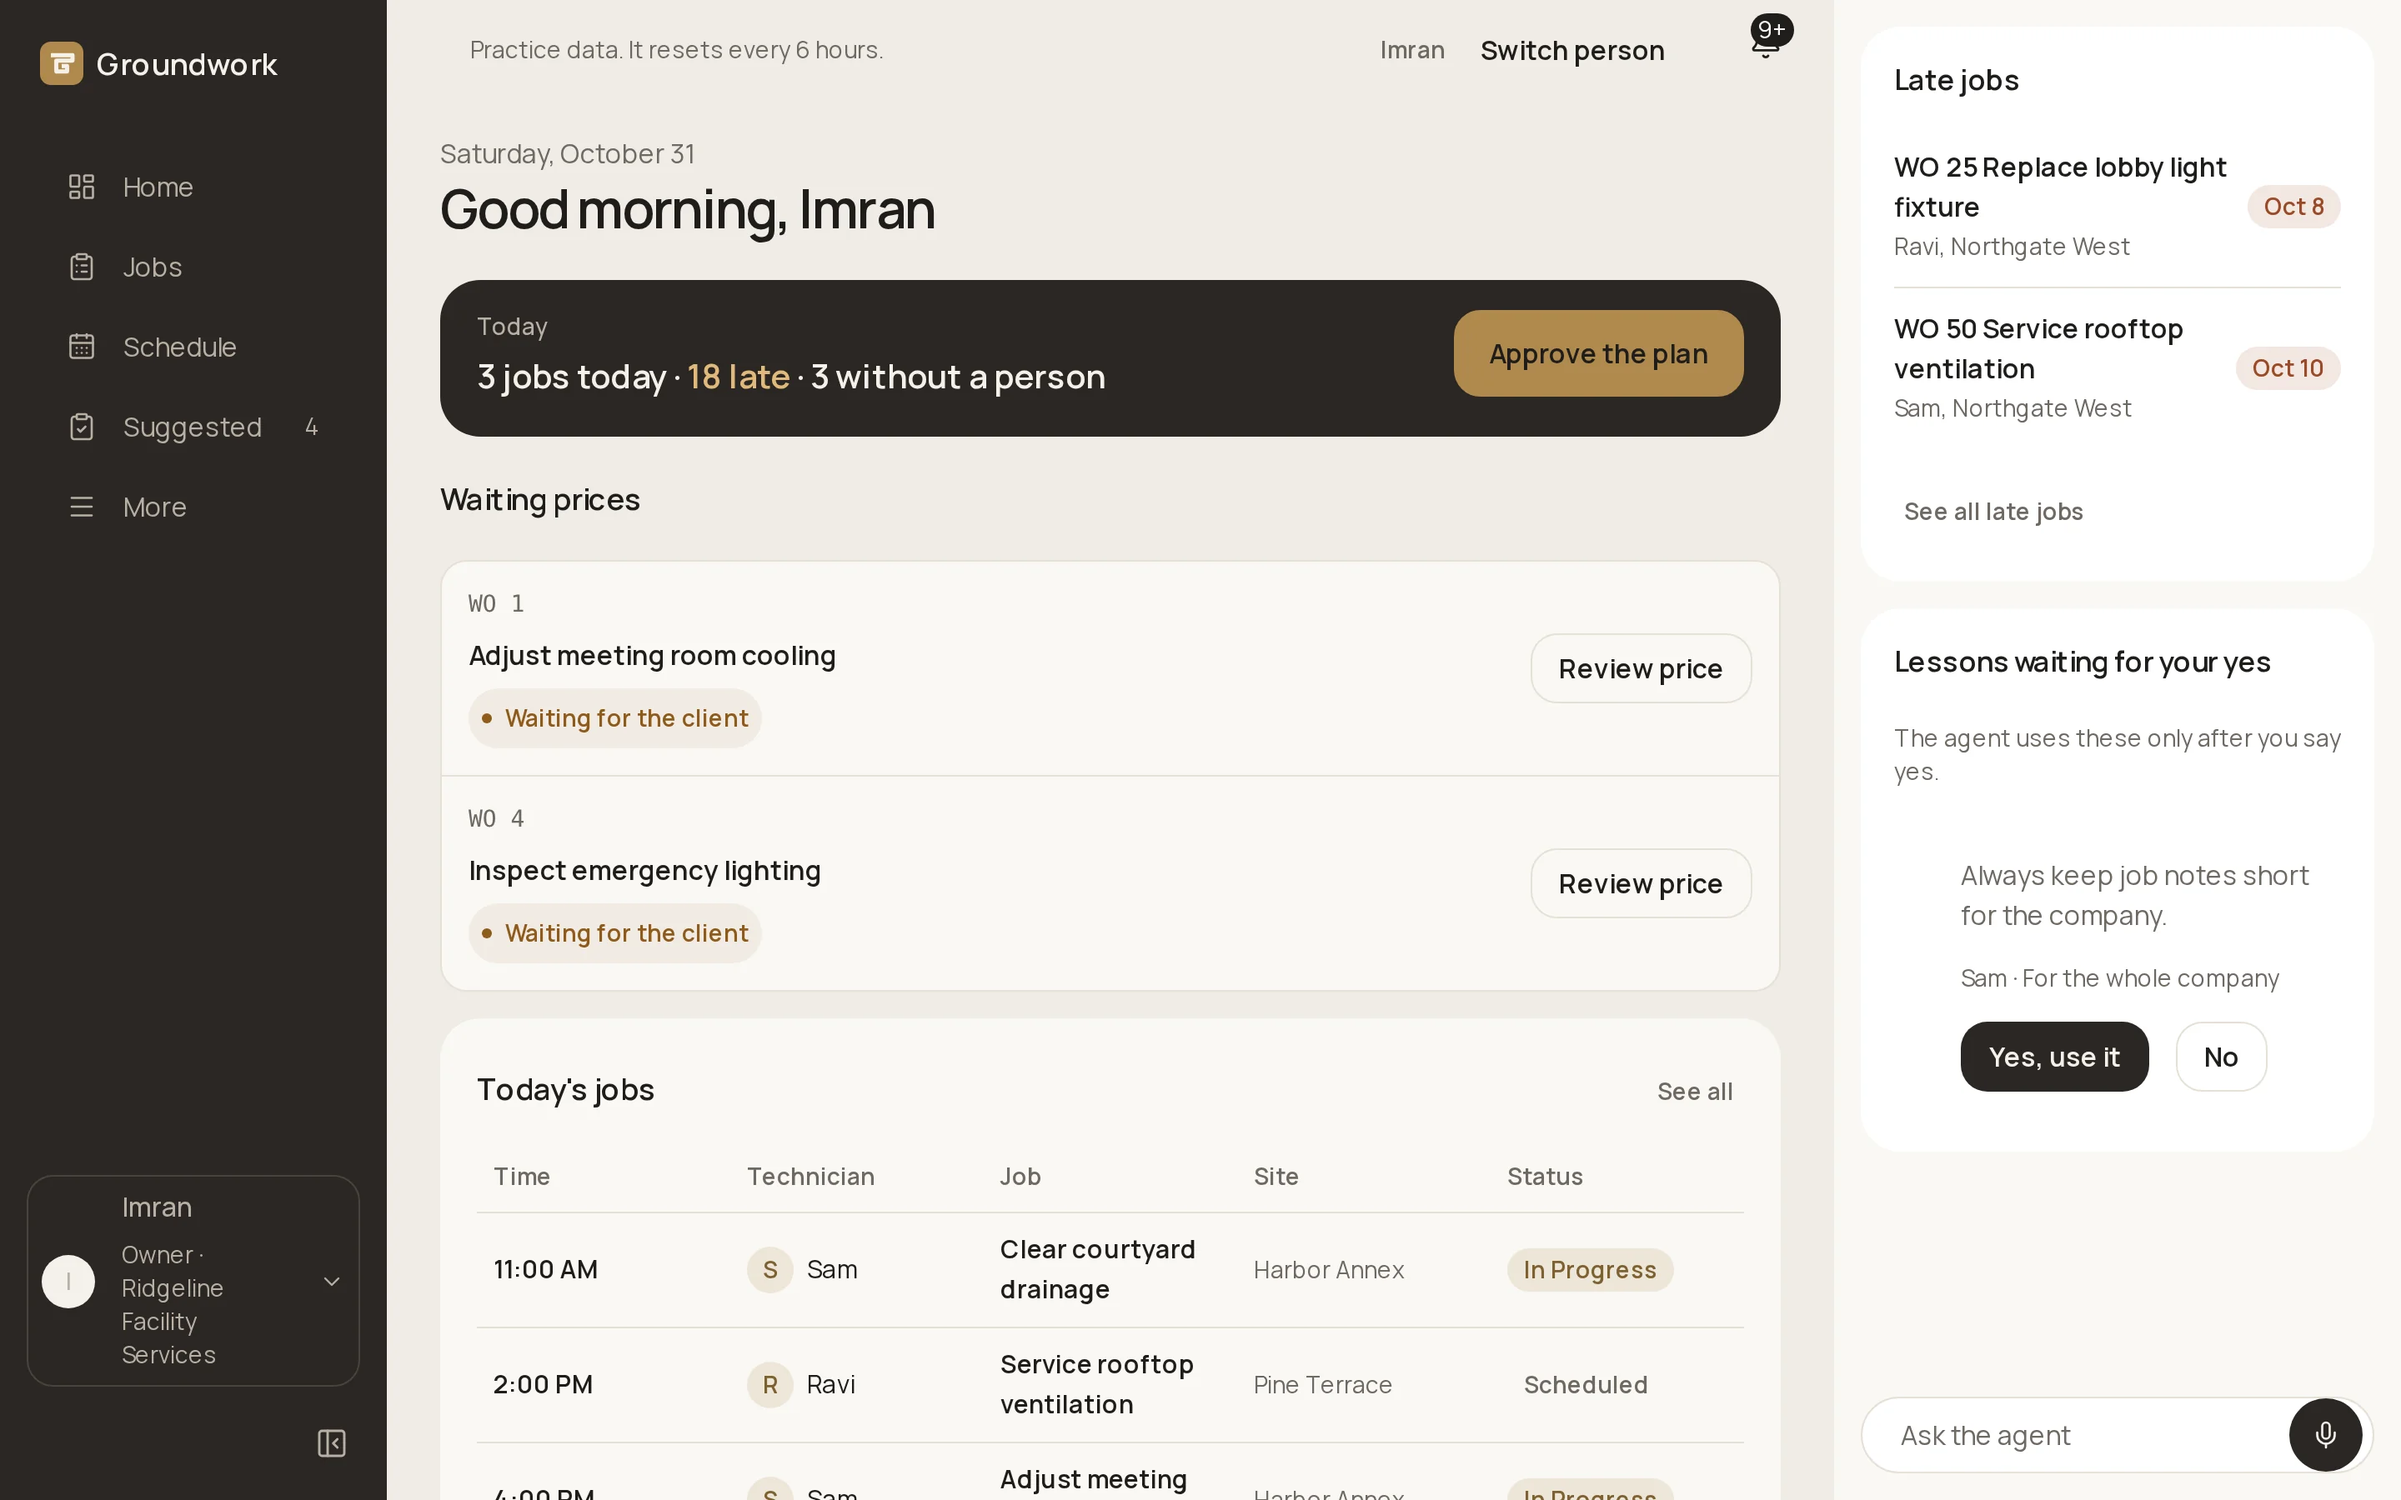
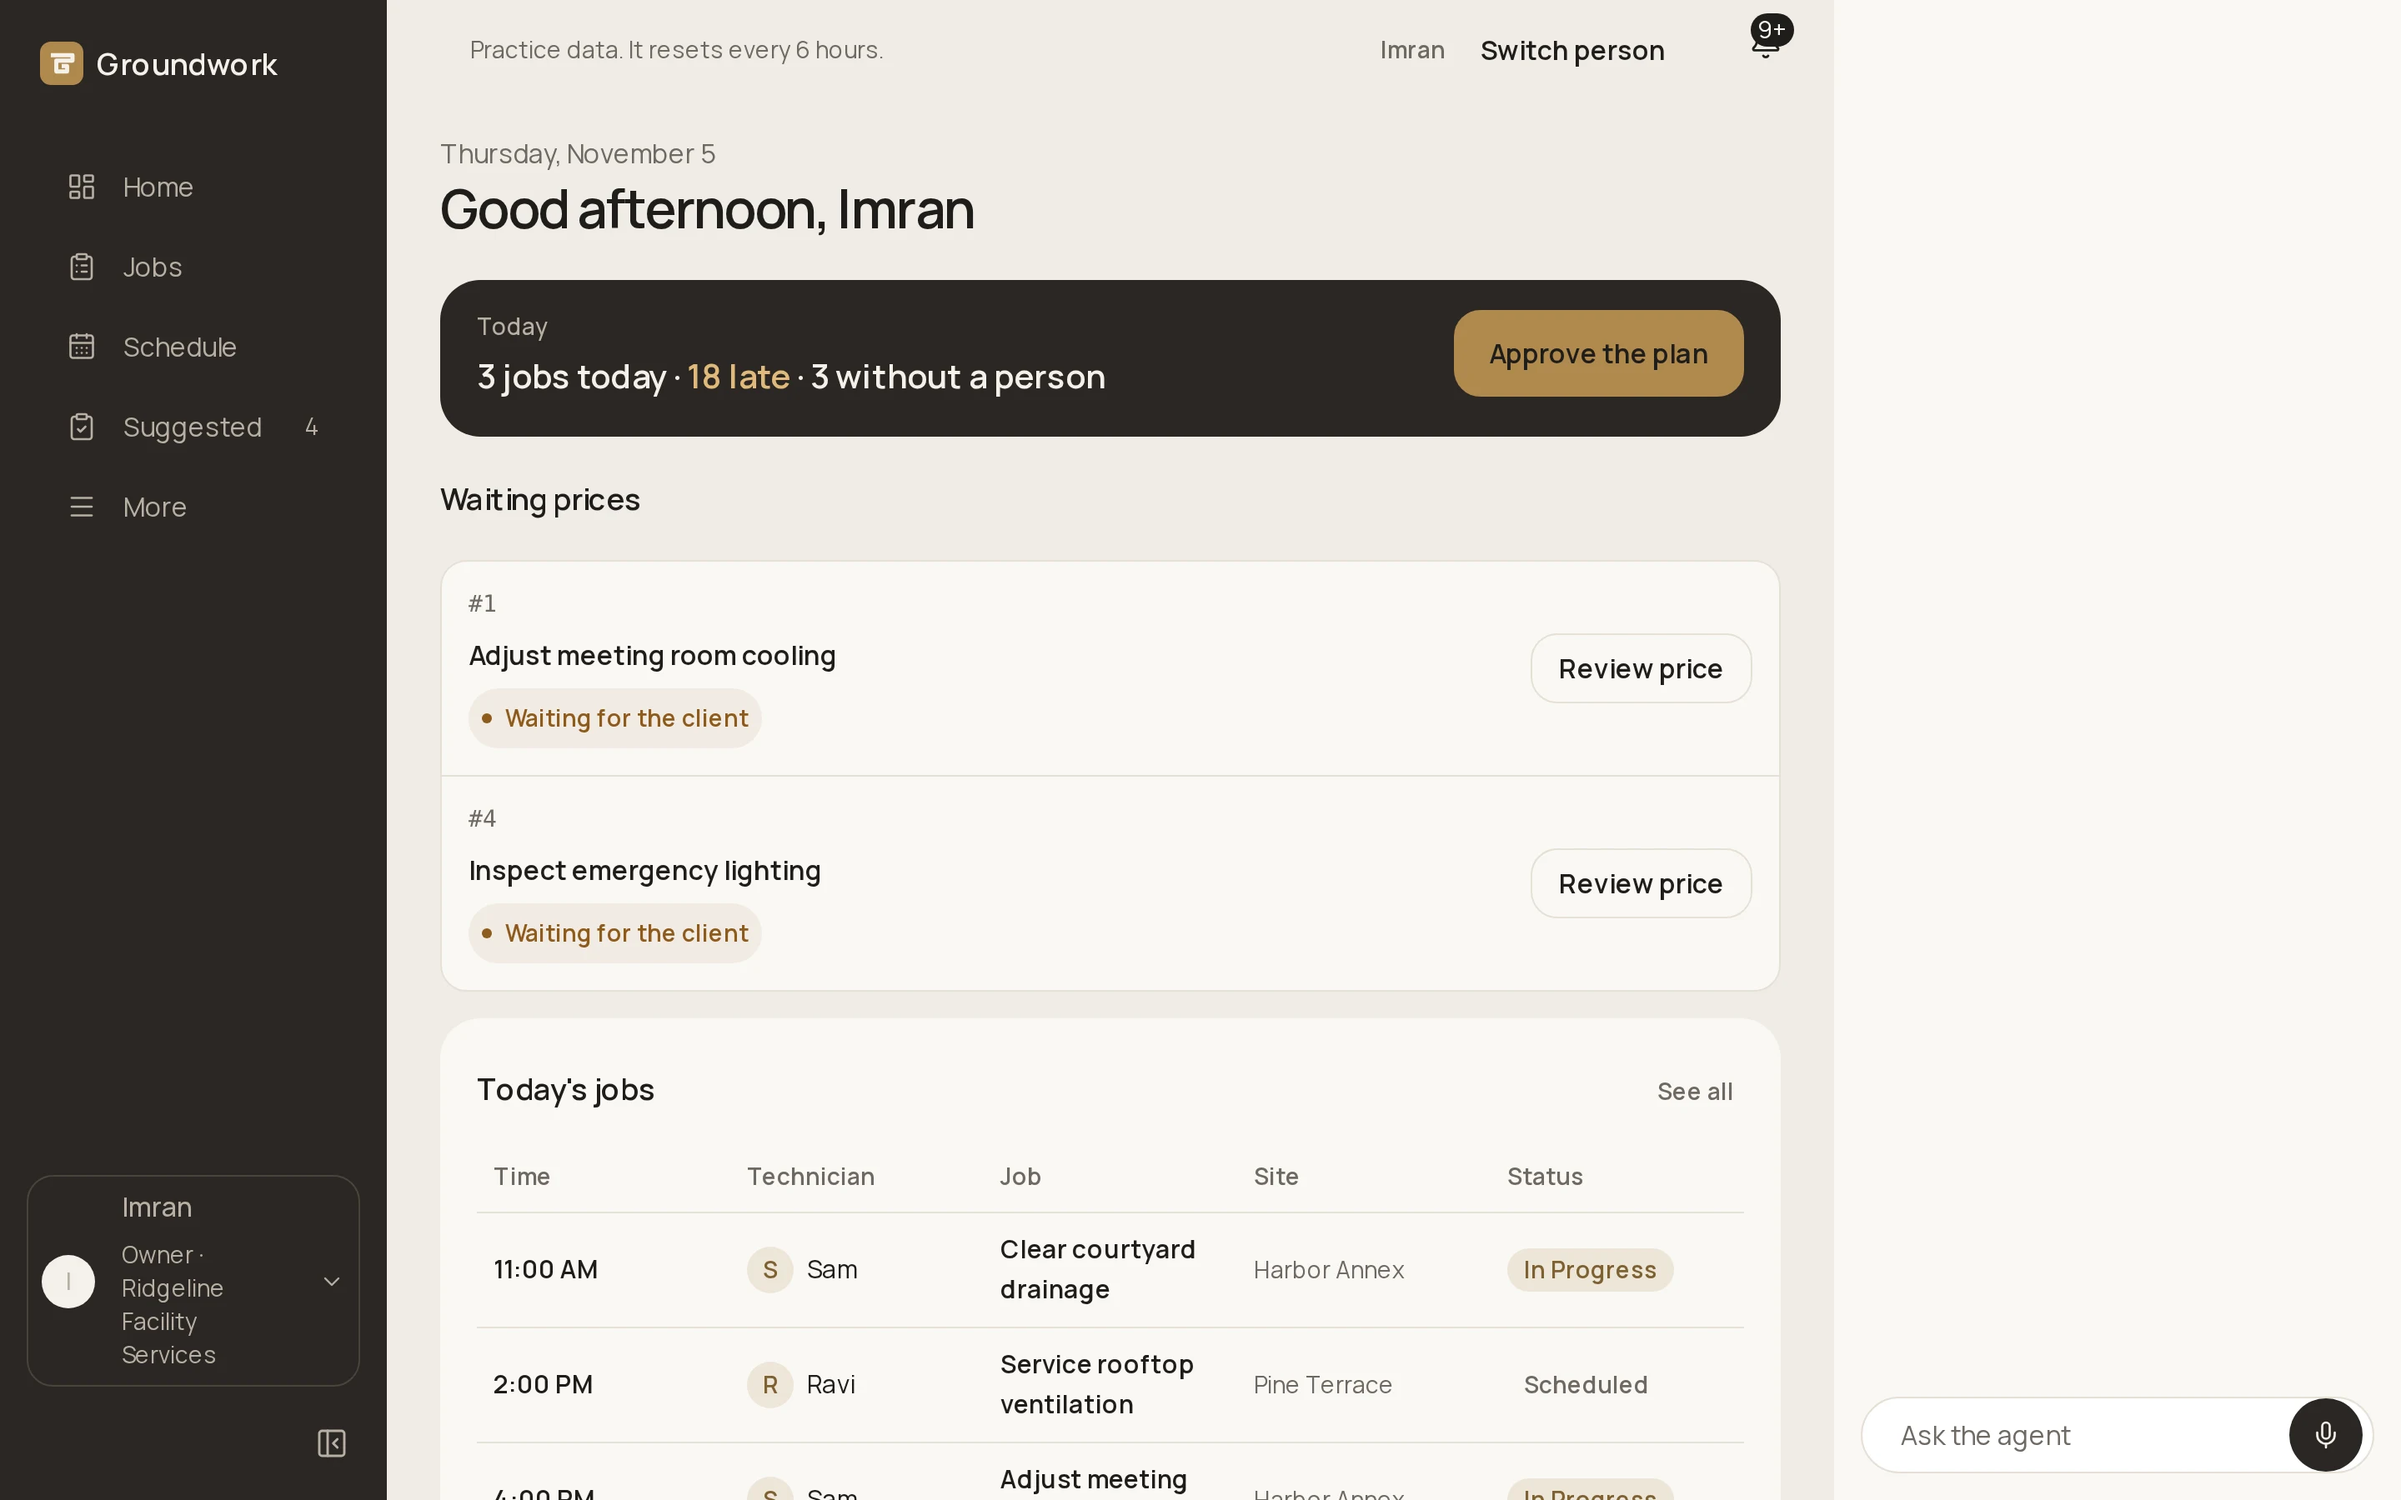
chore(landing): refresh product screenshots and add capture script

diff --git a/LANDING-NOTES.md b/LANDING-NOTES.md
@@ -36,3 +36,5 @@ Phone browser verification at 390×844 and 360×740 remains required outside thi
 ## Image provenance
 
 Created with the built-in image generation tool. Prompt: “Use case: ads-marketing. Asset type: website architectural hero image, landscape 3:2 composition. A single striking modern nine-storey mid-rise building at night, clean elevated three-quarter isometric view, entire building visible centered with modest black margin. Pure solid #000000 background and black ground, no scenery. Restrained photoreal architectural model photography, matte charcoal concrete, precise stacked floor plates with subtle upper setbacks and recessed windows. Floors lit internally in warm ochre #C69753 and terracotta #C8845B, with a few dusty blue #89A9B0 windows. Crisp restrained editorial lighting, readable silhouette, tactile matte materials. No text, no people, no logos, no lens flares, no bloom, no glows, no gradients in background, no other objects. Building fills most of the frame vertically. Save the generated image as an available local file.”
+
+Product screenshots can be refreshed from a local server with `BASE_URL=http://localhost:3000 node scripts/capture-landing.mjs`. The script uses the existing e2e Playwright install and ffmpeg, captures Imran's dashboard and Arif's Hindi voice view, hides development controls, and refuses captures containing the retired job prefix.
